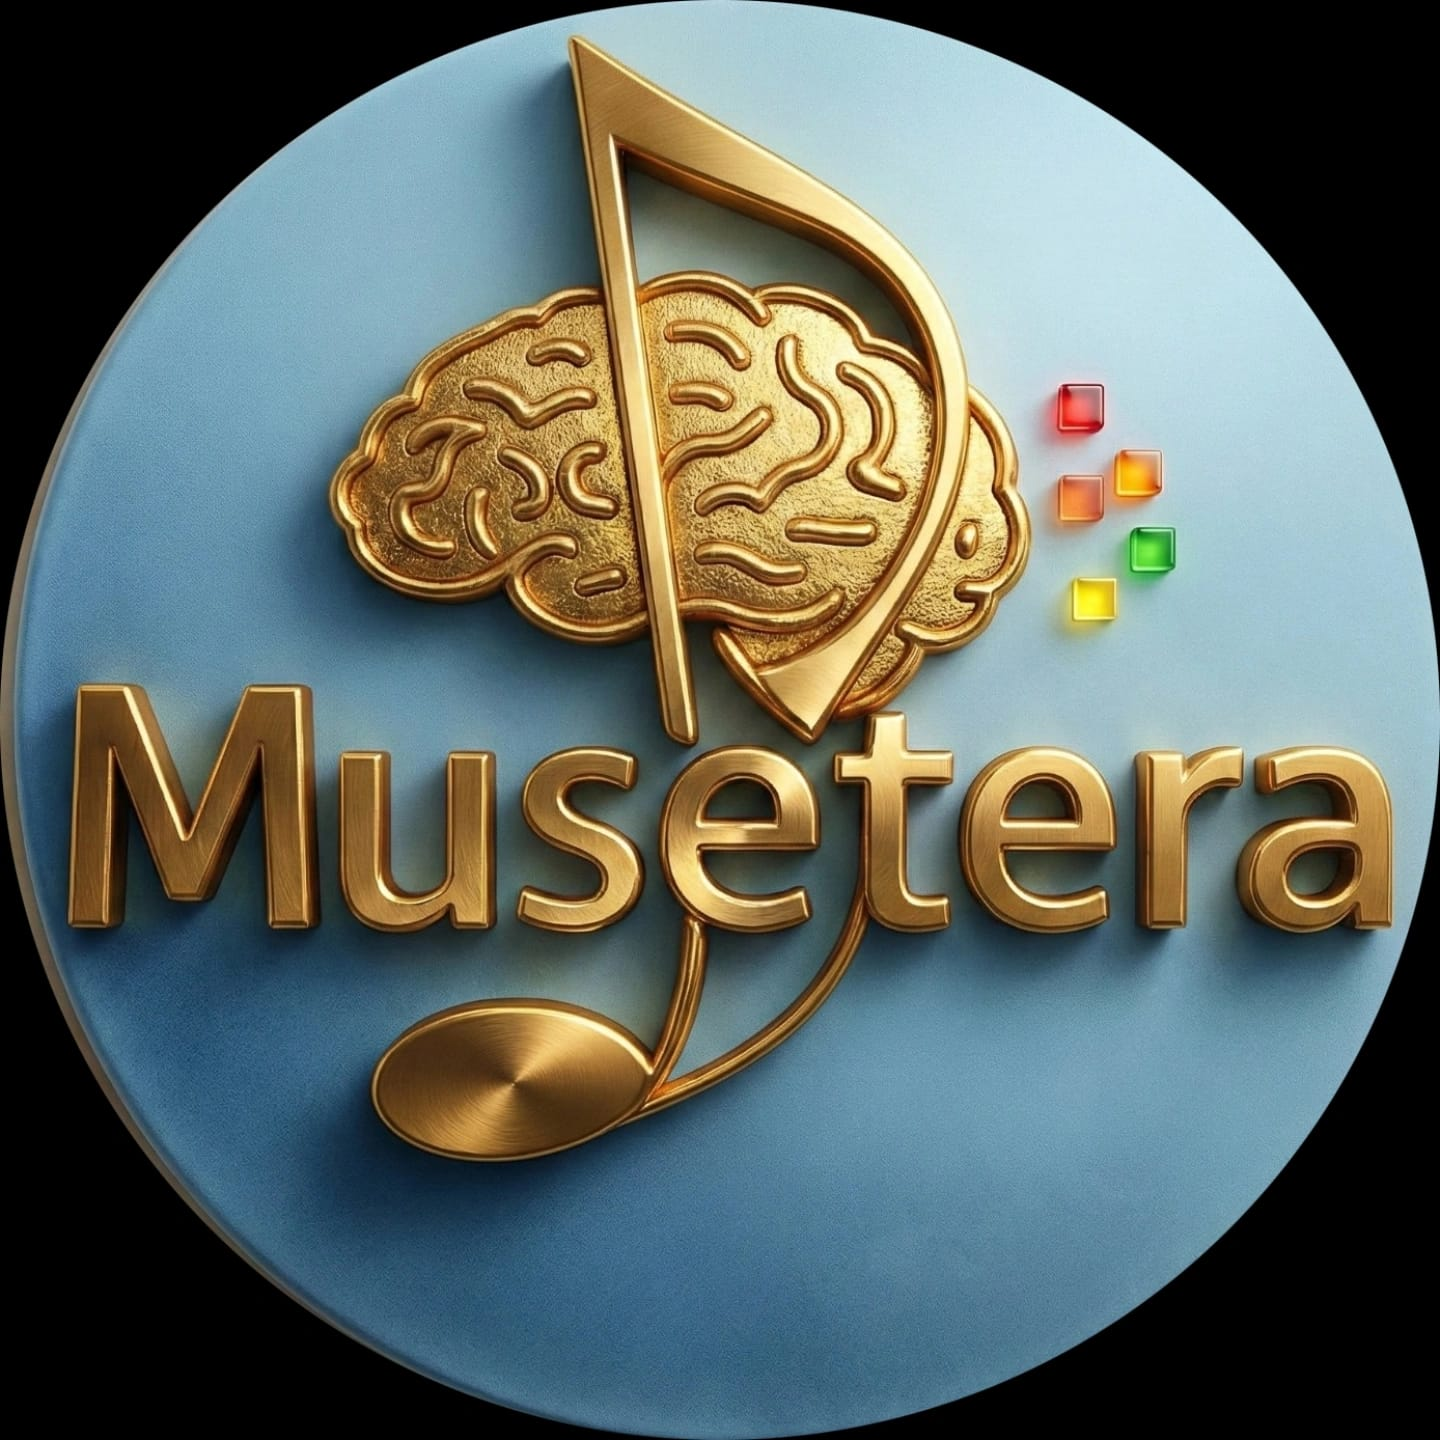
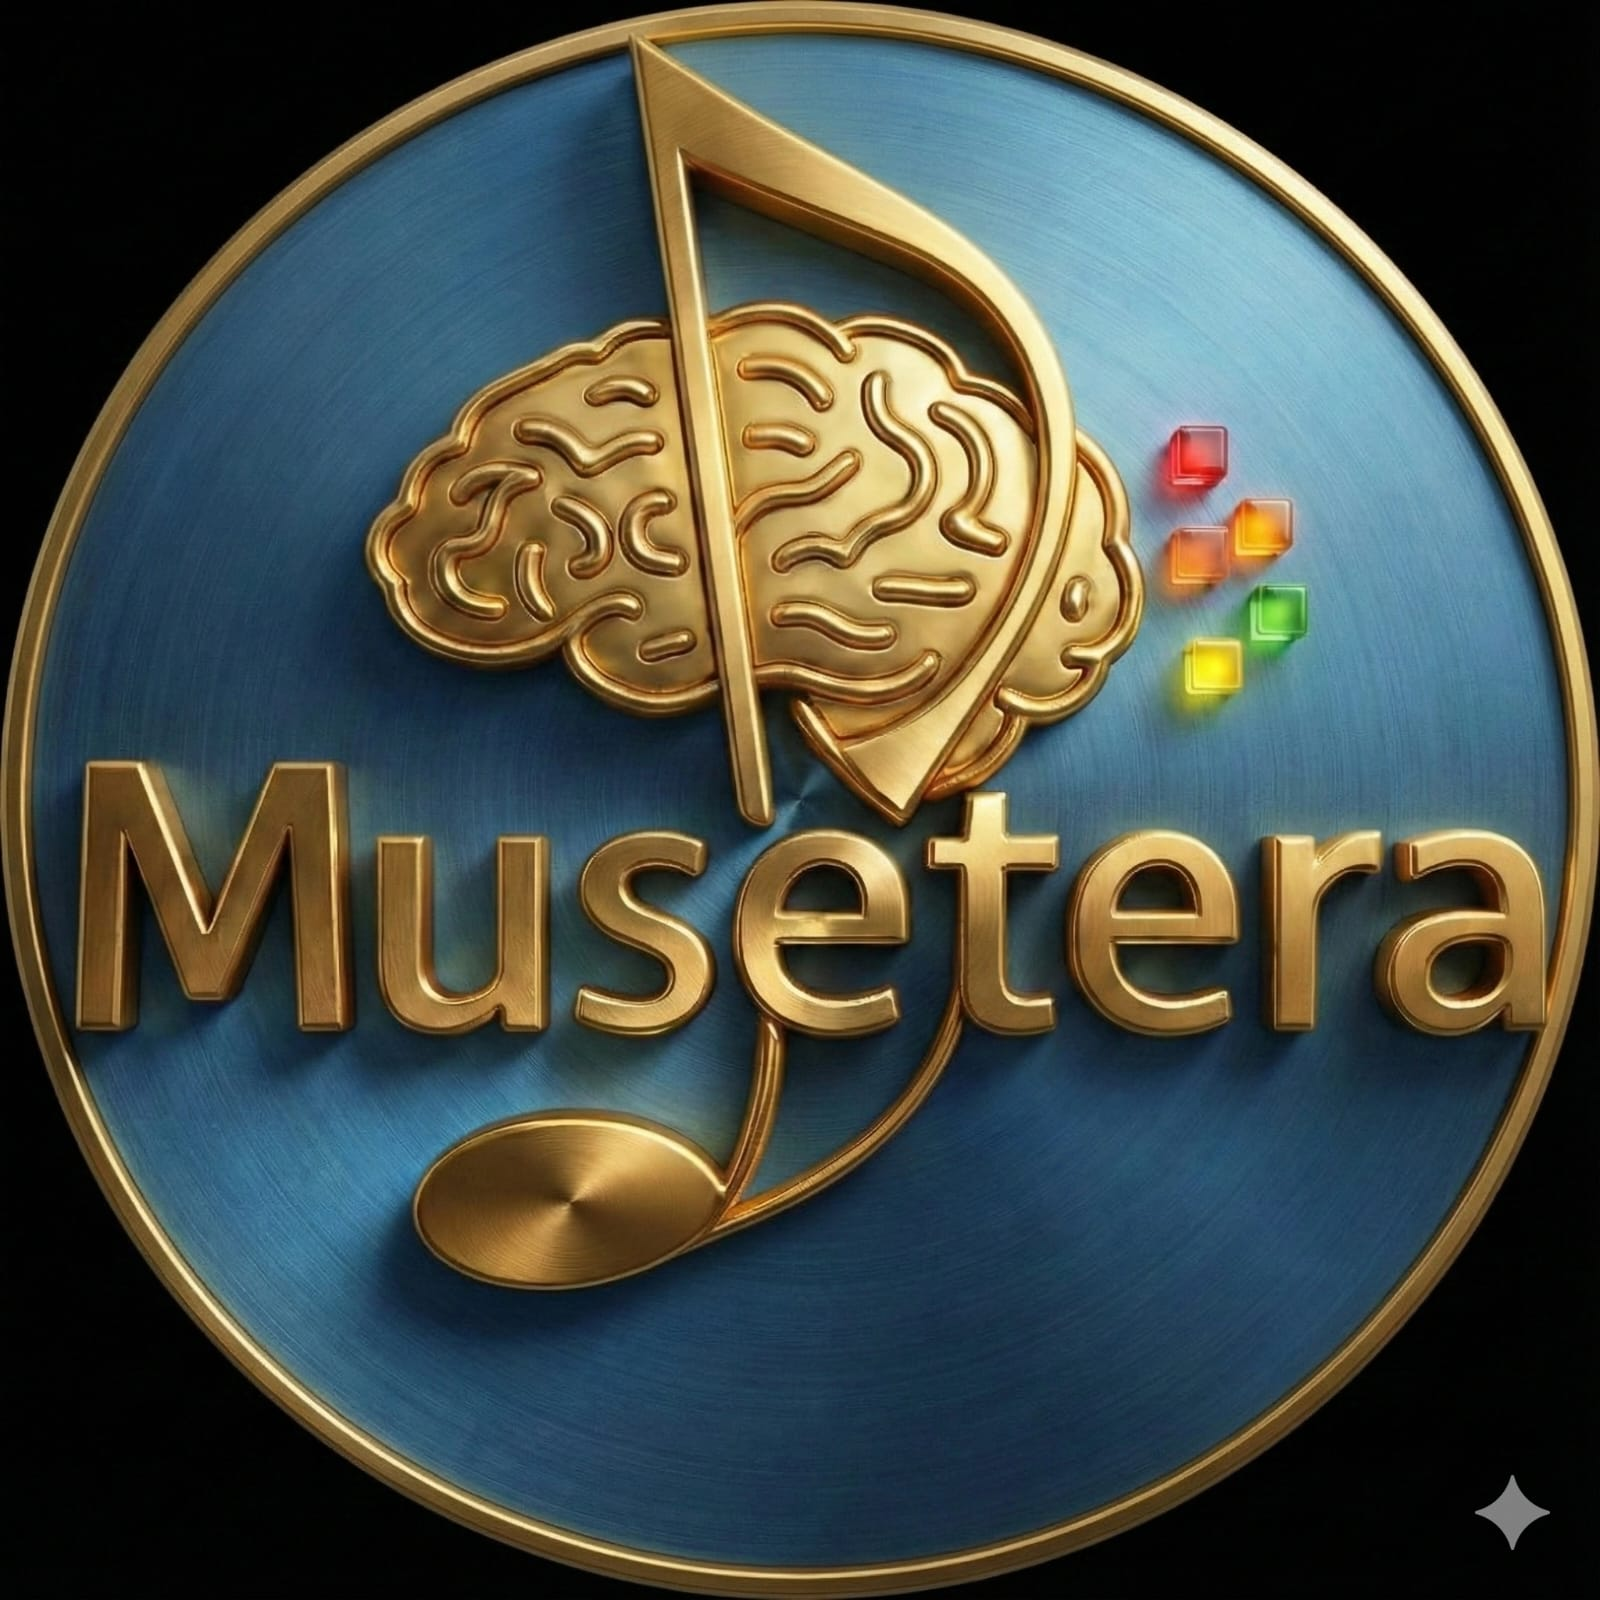
Changes

diff --git a/src/components/sidebar/components/SidebarHeader.tsx b/src/components/sidebar/components/SidebarHeader.tsx
@@ -23,7 +23,7 @@ export function SidebarHeader({ collapsed }: SidebarHeaderProps) {
           <div className="relative group">
             <div className="absolute inset-0 bg-gradient-to-r from-purple-600 to-blue-600 rounded-full blur-md opacity-50 group-hover:opacity-75 transition-opacity animate-pulse-slow"></div>
             <img
-              src="/lovable-uploads/7e9c8dee-0549-4b2a-9a82-3b3e2717c34f.png"
+              src="/lovable-uploads/musetera-logo-new.png"
               alt="MuseTera"
               className="relative h-10 w-10 rounded-full shadow-xl ring-2 ring-border group-hover:ring-border/80 transition-all group-hover:scale-110 duration-300"
             />
@@ -40,7 +40,7 @@ export function SidebarHeader({ collapsed }: SidebarHeaderProps) {
             {/* Logo principal */}
             <div className="relative">
               <img
-                src="/lovable-uploads/7e9c8dee-0549-4b2a-9a82-3b3e2717c34f.png"
+                src="/lovable-uploads/musetera-logo-new.png"
                 alt="MuseTera"
                 className="h-16 w-16 rounded-full shadow-2xl ring-4 ring-border group-hover:ring-border/80 transition-all group-hover:scale-110 duration-300"
               />

diff --git a/src/components/auth/LoginForm.tsx b/src/components/auth/LoginForm.tsx
@@ -104,7 +104,7 @@ export default function LoginForm({ onSwitchToPasswordReset }: LoginFormProps) {
           <div className="absolute inset-2 md:inset-3 bg-gradient-to-br from-white/30 to-transparent rounded-full"></div>
           <div className="absolute -inset-1 md:-inset-2 bg-gradient-to-r from-primary to-secondary rounded-full blur-md opacity-30 group-hover:opacity-50 transition-opacity duration-500 animate-pulse-slow"></div>
           <img 
-            src="/lovable-uploads/6302f00d-e2bf-4d19-95f3-eb52823c19d8.png" 
+            src="/lovable-uploads/musetera-logo-new.png" 
             alt="MuseTera Logo" 
             className="relative w-full h-full object-cover filter drop-shadow-2xl z-10 rounded-full"
           />

diff --git a/src/components/header/HeaderLogo.tsx b/src/components/header/HeaderLogo.tsx
@@ -7,7 +7,7 @@ export function HeaderLogo() {
       <div className="relative">
         <div className="absolute -inset-1 bg-gradient-to-r from-purple-600 via-blue-600 to-pink-600 rounded-lg blur opacity-30 group-hover:opacity-60 transition-all animate-gradient"></div>
         <img 
-          src="/lovable-uploads/7e9c8dee-0549-4b2a-9a82-3b3e2717c34f.png"
+          src="/lovable-uploads/musetera-logo-new.png"
           alt="MuseTera"
           className="relative h-7 w-7 rounded-lg shadow-lg group-hover:rotate-12 transition-transform duration-300"
         />

diff --git a/src/components/auth/AuthHeader.tsx b/src/components/auth/AuthHeader.tsx
@@ -10,7 +10,7 @@ export default function AuthHeader({ title, description }: AuthHeaderProps) {
   return (
     <div className="text-center">
       <img
-        src="/lovable-uploads/ee49096e-05e2-47e5-9605-999a529e68b3.png"
+        src="/lovable-uploads/musetera-logo-new.png"
         alt="MuseTera Logo"
         className="mx-auto h-32 w-32 mb-4"
       />
